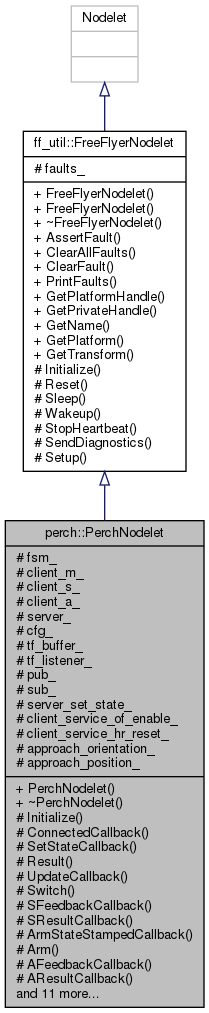
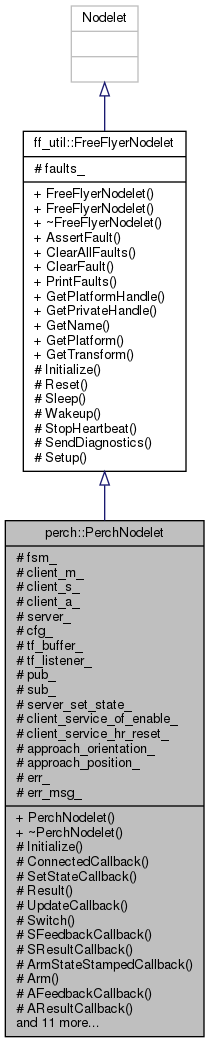
Automatic update for b32d7c630a2360ae2b26109eef3a8213e7e31b73.

Changed region(s): [[0.0, 0.0, 0.9761, 1.0], [0.8612, 0.4284, 0.89, 0.459]]

diff --git a/html/classperch_1_1PerchNodelet.html b/html/classperch_1_1PerchNodelet.html
@@ -102,7 +102,7 @@ Inheritance diagram for perch::PerchNodelet:</div>
 <div class="dyncontent">
 <div class="center"><img src="classperch_1_1PerchNodelet__inherit__graph.png" border="0" usemap="#aperch_1_1PerchNodelet_inherit__map" alt="Inheritance graph"/></div>
 <map name="perch_1_1PerchNodelet_inherit__map" id="aperch_1_1PerchNodelet_inherit__map">
-<area shape="rect" title=" " alt="" coords="5,520,204,1008"/>
+<area shape="rect" title=" " alt="" coords="5,520,204,1037"/>
 <area shape="rect" href="classff__util_1_1FreeFlyerNodelet.html" title=" " alt="" coords="23,131,186,472"/>
 <area shape="rect" title=" " alt="" coords="71,5,138,83"/>
 </map>
@@ -280,6 +280,10 @@ Protected Attributes</h2></td></tr>
 <tr class="separator:abd907ed01346326400f847d9674d2f75"><td class="memSeparator" colspan="2">&#160;</td></tr>
 <tr class="memitem:a280f4d24ad0f33d09cfae235e9fd6f53"><td class="memItemLeft" align="right" valign="top">Eigen::Vector3d&#160;</td><td class="memItemRight" valign="bottom"><a class="el" href="classperch_1_1PerchNodelet.html#a280f4d24ad0f33d09cfae235e9fd6f53">approach_position_</a></td></tr>
 <tr class="separator:a280f4d24ad0f33d09cfae235e9fd6f53"><td class="memSeparator" colspan="2">&#160;</td></tr>
+<tr class="memitem:ac054b16fce5218ff8003bee62984db79"><td class="memItemLeft" align="right" valign="top">int32_t&#160;</td><td class="memItemRight" valign="bottom"><a class="el" href="classperch_1_1PerchNodelet.html#ac054b16fce5218ff8003bee62984db79">err_</a></td></tr>
+<tr class="separator:ac054b16fce5218ff8003bee62984db79"><td class="memSeparator" colspan="2">&#160;</td></tr>
+<tr class="memitem:aefd55deaff09f39806ba0881fd1846b0"><td class="memItemLeft" align="right" valign="top">std::string&#160;</td><td class="memItemRight" valign="bottom"><a class="el" href="classperch_1_1PerchNodelet.html#aefd55deaff09f39806ba0881fd1846b0">err_msg_</a></td></tr>
+<tr class="separator:aefd55deaff09f39806ba0881fd1846b0"><td class="memSeparator" colspan="2">&#160;</td></tr>
 <tr class="inherit_header pro_attribs_classff__util_1_1FreeFlyerNodelet"><td colspan="2" onclick="javascript:toggleInherit('pro_attribs_classff__util_1_1FreeFlyerNodelet')"><img src="closed.png" alt="-"/>&#160;Protected Attributes inherited from <a class="el" href="classff__util_1_1FreeFlyerNodelet.html">ff_util::FreeFlyerNodelet</a></td></tr>
 <tr class="memitem:ab3a560b870846b0ac9f68f72dd6463c6 inherit pro_attribs_classff__util_1_1FreeFlyerNodelet"><td class="memItemLeft" align="right" valign="top">std::map&lt; std::string, int &gt;&#160;</td><td class="memItemRight" valign="bottom"><a class="el" href="classff__util_1_1FreeFlyerNodelet.html#ab3a560b870846b0ac9f68f72dd6463c6">faults_</a></td></tr>
 <tr class="separator:ab3a560b870846b0ac9f68f72dd6463c6 inherit pro_attribs_classff__util_1_1FreeFlyerNodelet"><td class="memSeparator" colspan="2">&#160;</td></tr>
@@ -1244,6 +1248,50 @@ Protected Attributes</h2></td></tr>
       <table class="memname">
         <tr>
           <td class="memname">ros::ServiceClient perch::PerchNodelet::client_service_of_enable_</td>
+        </tr>
+      </table>
+  </td>
+  <td class="mlabels-right">
+<span class="mlabels"><span class="mlabel">protected</span></span>  </td>
+  </tr>
+</table>
+</div><div class="memdoc">
+
+</div>
+</div>
+<a id="ac054b16fce5218ff8003bee62984db79"></a>
+<h2 class="memtitle"><span class="permalink"><a href="#ac054b16fce5218ff8003bee62984db79">&#9670;&nbsp;</a></span>err_</h2>
+
+<div class="memitem">
+<div class="memproto">
+<table class="mlabels">
+  <tr>
+  <td class="mlabels-left">
+      <table class="memname">
+        <tr>
+          <td class="memname">int32_t perch::PerchNodelet::err_</td>
+        </tr>
+      </table>
+  </td>
+  <td class="mlabels-right">
+<span class="mlabels"><span class="mlabel">protected</span></span>  </td>
+  </tr>
+</table>
+</div><div class="memdoc">
+
+</div>
+</div>
+<a id="aefd55deaff09f39806ba0881fd1846b0"></a>
+<h2 class="memtitle"><span class="permalink"><a href="#aefd55deaff09f39806ba0881fd1846b0">&#9670;&nbsp;</a></span>err_msg_</h2>
+
+<div class="memitem">
+<div class="memproto">
+<table class="mlabels">
+  <tr>
+  <td class="mlabels-left">
+      <table class="memname">
+        <tr>
+          <td class="memname">std::string perch::PerchNodelet::err_msg_</td>
         </tr>
       </table>
   </td>

diff --git a/html/classperch_1_1PerchNodelet-members.html b/html/classperch_1_1PerchNodelet-members.html
@@ -119,6 +119,8 @@ $(document).ready(function(){initNavTree('classperch_1_1PerchNodelet.html',''); 
   <tr class="even"><td class="entry"><a class="el" href="classperch_1_1PerchNodelet.html#ad2a16e85c23e8ecea8188710818fe34aa9b9f798a04511c33c12cd8145ba75add">COMPLETE_POSE</a> enum value</td><td class="entry"><a class="el" href="classperch_1_1PerchNodelet.html">perch::PerchNodelet</a></td><td class="entry"></td></tr>
   <tr><td class="entry"><a class="el" href="classperch_1_1PerchNodelet.html#a8daea92a7c44098f076b1fa3adcafc98">ConnectedCallback</a>()</td><td class="entry"><a class="el" href="classperch_1_1PerchNodelet.html">perch::PerchNodelet</a></td><td class="entry"><span class="mlabel">inline</span><span class="mlabel">protected</span></td></tr>
   <tr class="even"><td class="entry"><a class="el" href="classperch_1_1PerchNodelet.html#ac66d2e7100cebd51326bc5b4eb410571aa8522003938e4b2153222998dff0f902">DISTAL</a> enum value</td><td class="entry"><a class="el" href="classperch_1_1PerchNodelet.html">perch::PerchNodelet</a></td><td class="entry"></td></tr>
+  <tr><td class="entry"><a class="el" href="classperch_1_1PerchNodelet.html#ac054b16fce5218ff8003bee62984db79">err_</a></td><td class="entry"><a class="el" href="classperch_1_1PerchNodelet.html">perch::PerchNodelet</a></td><td class="entry"><span class="mlabel">protected</span></td></tr>
+  <tr class="even"><td class="entry"><a class="el" href="classperch_1_1PerchNodelet.html#aefd55deaff09f39806ba0881fd1846b0">err_msg_</a></td><td class="entry"><a class="el" href="classperch_1_1PerchNodelet.html">perch::PerchNodelet</a></td><td class="entry"><span class="mlabel">protected</span></td></tr>
   <tr><td class="entry"><a class="el" href="classff__util_1_1FreeFlyerNodelet.html#ab3a560b870846b0ac9f68f72dd6463c6">faults_</a></td><td class="entry"><a class="el" href="classff__util_1_1FreeFlyerNodelet.html">ff_util::FreeFlyerNodelet</a></td><td class="entry"><span class="mlabel">protected</span></td></tr>
   <tr class="even"><td class="entry"><a class="el" href="classff__util_1_1FreeFlyerNodelet.html#a62698fd84f805a8bdb3c4997d2e4658f">FreeFlyerNodelet</a>(bool autostart_hb_timer=true)</td><td class="entry"><a class="el" href="classff__util_1_1FreeFlyerNodelet.html">ff_util::FreeFlyerNodelet</a></td><td class="entry"><span class="mlabel">explicit</span></td></tr>
   <tr><td class="entry"><a class="el" href="classff__util_1_1FreeFlyerNodelet.html#a0f546ff8f16a47512dff2822ca17cd7f">FreeFlyerNodelet</a>(std::string const &amp;name, bool autostart_hb_timer=true)</td><td class="entry"><a class="el" href="classff__util_1_1FreeFlyerNodelet.html">ff_util::FreeFlyerNodelet</a></td><td class="entry"><span class="mlabel">explicit</span></td></tr>

diff --git a/html/search/all_5.js b/html/search/all_5.js
@@ -120,8 +120,8 @@ var searchData=
   ['eqconstraint_1226',['EqConstraint',['../classtraj__opt_1_1EqConstraint.html',1,'traj_opt::EqConstraint'],['../classtraj__opt_1_1Variable.html#a29fa7330e188a31749a5e88423bd219a',1,'traj_opt::Variable::EqConstraint()']]],
   ['eqpair_1227',['EqPair',['../classtraj__opt_1_1EqConstraint.html#a338e15b916f7affabbbbb2b542e0caf0',1,'traj_opt::EqConstraint']]],
   ['equal_1228',['Equal',['../classff__util_1_1FlightUtil.html#aa476fe91c3e156d3b3a9fb5c1d001efe',1,'ff_util::FlightUtil::Equal()'],['../classarm_1_1ArmNodelet.html#a38bfbfbfb696e0b3f41e56f3bcae939a',1,'arm::ArmNodelet::Equal()']]],
-  ['err_5f_1229',['err_',['../classdock_1_1DockNodelet.html#acd797844987cd41327287e1007135d93',1,'dock::DockNodelet']]],
-  ['err_5fmsg_5f_1230',['err_msg_',['../classdock_1_1DockNodelet.html#aad0ea167d0be9aa249c9c342eb9c0ed8',1,'dock::DockNodelet']]],
+  ['err_5f_1229',['err_',['../classdock_1_1DockNodelet.html#acd797844987cd41327287e1007135d93',1,'dock::DockNodelet::err_()'],['../classperch_1_1PerchNodelet.html#ac054b16fce5218ff8003bee62984db79',1,'perch::PerchNodelet::err_()']]],
+  ['err_5fmsg_5f_1230',['err_msg_',['../classdock_1_1DockNodelet.html#aad0ea167d0be9aa249c9c342eb9c0ed8',1,'dock::DockNodelet::err_msg_()'],['../classperch_1_1PerchNodelet.html#aefd55deaff09f39806ba0881fd1846b0',1,'perch::PerchNodelet::err_msg_()']]],
   ['errbadcrc_1231',['errBadCRC',['../unionpmc__actuator_1_1Status1.html#a9af4111ec1f03abffede87c30aa89096',1,'pmc_actuator::Status1']]],
   ['errnozcmdoor_1232',['errNozCmdOOR',['../unionpmc__actuator_1_1Status1.html#a4b3edd2b7f02e6d68b097edcd0e70a55',1,'pmc_actuator::Status1']]],
   ['error_1233',['error',['../unionsignal__lights_1_1LEDC__TELEMETRY__STATUS.html#a901f9a636afddeb2f314820e9020d118',1,'signal_lights::LEDC_TELEMETRY_STATUS::error()'],['../namespacei2c.html#a32fa9cc9f141dec6dd254750843040f1',1,'i2c::Error()'],['../eps__driver__tool_8cc.html#a4de9a4e7343fbbb08e0d93c5999da6c0',1,'Error(std::string const &amp;msg, int code=-1):&#160;eps_driver_tool.cc'],['../smart__dock__tool_8cc.html#a4de9a4e7343fbbb08e0d93c5999da6c0',1,'Error(std::string const &amp;msg, int code=-1):&#160;smart_dock_tool.cc'],['../namespacespeed__cam.html#a4c409e7490d59ac857394eef92bffac5',1,'speed_cam::Error()'],['../signal__lights_8h.html#adc64ccb7538429fe78e3fe0139267370',1,'error():&#160;signal_lights.h']]],

diff --git a/html/search/variables_4.js b/html/search/variables_4.js
@@ -16,8 +16,8 @@ var searchData=
   ['env_5fmsg_5f_9234',['env_msg_',['../classgnc__autocode_1_1GncSimAutocode.html#afd4467e319f50b3dca17102cd3a7232c',1,'gnc_autocode::GncSimAutocode']]],
   ['eps_5fterminate_5fclient_5f_9235',['eps_terminate_client_',['../classexecutive_1_1Executive.html#affe75dfd76b71b1b708267c5d73982f9',1,'executive::Executive']]],
   ['epsilon_5f_9236',['epsilon_',['../classplanner__trapezoidal_1_1PlannerTrapezoidalNodelet.html#a9e1b66fd72421e87ca6930214b40fece',1,'planner_trapezoidal::PlannerTrapezoidalNodelet']]],
-  ['err_5f_9237',['err_',['../classdock_1_1DockNodelet.html#acd797844987cd41327287e1007135d93',1,'dock::DockNodelet']]],
-  ['err_5fmsg_5f_9238',['err_msg_',['../classdock_1_1DockNodelet.html#aad0ea167d0be9aa249c9c342eb9c0ed8',1,'dock::DockNodelet']]],
+  ['err_5f_9237',['err_',['../classdock_1_1DockNodelet.html#acd797844987cd41327287e1007135d93',1,'dock::DockNodelet::err_()'],['../classperch_1_1PerchNodelet.html#ac054b16fce5218ff8003bee62984db79',1,'perch::PerchNodelet::err_()']]],
+  ['err_5fmsg_5f_9238',['err_msg_',['../classdock_1_1DockNodelet.html#aad0ea167d0be9aa249c9c342eb9c0ed8',1,'dock::DockNodelet::err_msg_()'],['../classperch_1_1PerchNodelet.html#aefd55deaff09f39806ba0881fd1846b0',1,'perch::PerchNodelet::err_msg_()']]],
   ['errbadcrc_9239',['errBadCRC',['../unionpmc__actuator_1_1Status1.html#a9af4111ec1f03abffede87c30aa89096',1,'pmc_actuator::Status1']]],
   ['errnozcmdoor_9240',['errNozCmdOOR',['../unionpmc__actuator_1_1Status1.html#a4b3edd2b7f02e6d68b097edcd0e70a55',1,'pmc_actuator::Status1']]],
   ['error_9241',['error',['../unionsignal__lights_1_1LEDC__TELEMETRY__STATUS.html#a901f9a636afddeb2f314820e9020d118',1,'signal_lights::LEDC_TELEMETRY_STATUS::error()'],['../signal__lights_8h.html#adc64ccb7538429fe78e3fe0139267370',1,'error():&#160;signal_lights.h']]],

diff --git a/html/classff__util_1_1FreeFlyerNodelet.html b/html/classff__util_1_1FreeFlyerNodelet.html
@@ -133,7 +133,7 @@ Inheritance diagram for ff_util::FreeFlyerNodelet:</div>
 <area shape="rect" href="classmapper_1_1MapperNodelet.html" title=" " alt="" coords="5150,769,5313,1052"/>
 <area shape="rect" href="classmarker__tracking__node_1_1MarkerTrackingNodelet.html" title=" " alt="" coords="5337,857,5515,964"/>
 <area shape="rect" href="classmobility_1_1FrameStore.html" title=" " alt="" coords="5539,828,5681,993"/>
-<area shape="rect" href="classperch_1_1PerchNodelet.html" title=" " alt="" coords="5705,667,5904,1155"/>
+<area shape="rect" href="classperch_1_1PerchNodelet.html" title=" " alt="" coords="5705,652,5904,1169"/>
 <area shape="rect" href="classperching__arm_1_1PerchingArmNode.html" title=" " alt="" coords="5928,777,6145,1045"/>
 <area shape="rect" href="classpico__driver_1_1PicoDriverNodelet.html" title=" " alt="" coords="6169,850,6368,971"/>
 <area shape="rect" href="classplanner_1_1PlannerImplementation.html" title=" " alt="" coords="6393,813,6598,1008"/>

diff --git a/html/functions_e.html b/html/functions_e.html
@@ -287,9 +287,11 @@ $(document).ready(function(){initNavTree('functions_e.html',''); initResizable()
 </li>
 <li>err_
 : <a class="el" href="classdock_1_1DockNodelet.html#acd797844987cd41327287e1007135d93">dock::DockNodelet</a>
+, <a class="el" href="classperch_1_1PerchNodelet.html#ac054b16fce5218ff8003bee62984db79">perch::PerchNodelet</a>
 </li>
 <li>err_msg_
 : <a class="el" href="classdock_1_1DockNodelet.html#aad0ea167d0be9aa249c9c342eb9c0ed8">dock::DockNodelet</a>
+, <a class="el" href="classperch_1_1PerchNodelet.html#aefd55deaff09f39806ba0881fd1846b0">perch::PerchNodelet</a>
 </li>
 <li>errBadCRC
 : <a class="el" href="unionpmc__actuator_1_1Status1.html#a9af4111ec1f03abffede87c30aa89096">pmc_actuator::Status1</a>

diff --git a/html/functions_vars_e.html b/html/functions_vars_e.html
@@ -137,9 +137,11 @@ $(document).ready(function(){initNavTree('functions_vars_e.html',''); initResiza
 </li>
 <li>err_
 : <a class="el" href="classdock_1_1DockNodelet.html#acd797844987cd41327287e1007135d93">dock::DockNodelet</a>
+, <a class="el" href="classperch_1_1PerchNodelet.html#ac054b16fce5218ff8003bee62984db79">perch::PerchNodelet</a>
 </li>
 <li>err_msg_
 : <a class="el" href="classdock_1_1DockNodelet.html#aad0ea167d0be9aa249c9c342eb9c0ed8">dock::DockNodelet</a>
+, <a class="el" href="classperch_1_1PerchNodelet.html#aefd55deaff09f39806ba0881fd1846b0">perch::PerchNodelet</a>
 </li>
 <li>errBadCRC
 : <a class="el" href="unionpmc__actuator_1_1Status1.html#a9af4111ec1f03abffede87c30aa89096">pmc_actuator::Status1</a>
